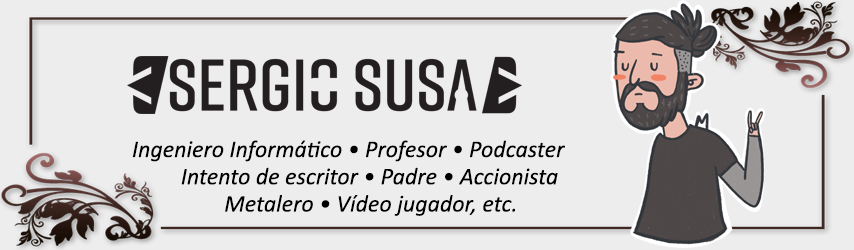
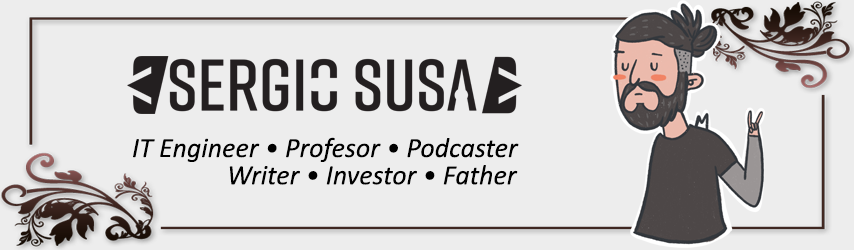
change default language and header.

Changed region(s): [[0.1522, 0.56, 0.6698, 0.756], [0.2436, 0.784, 0.6089, 0.868]]

diff --git a/README_ES.md b/README_ES.md
@@ -1,21 +1,21 @@
-# Hi, i'm Sergio Susa 👋
+# Hola, soy Sergio Susa 👋
 
 ![Sergio Susa](https://github.com/sergiosusa/sergiosusa/raw/master/images/header.png)
 
-I'm especially interested in everything related to the technological sector:
+Interesado en todo lo relacionado con el sector tecnológico, especialmente:
 
-- Software development.
-- Continuous improvement and self-learning.
-- Innovation.
-- Automation.
+- Desarrollo de software.
+- Mejora continua y autoaprendizaje.
+- Innovación.
+- Automatización.
 
-## Keep in touch with me through the web 🌍
+## Mantente en contacto conmigo a través de la web 🌍
 
-### Personal projects
-- [🖋 Personal Blog](https://sergiosusa.com/)
+### Proyectos personales
+- [🖋 Blog personal](https://sergiosusa.com/)
 - [🎙 ¿Qué me estás container? (Podcast)](https://www.ivoox.com/podcast-que-me-estas-container_sq_f1675569_1.html)
 
-### Social networks
+### Redes sociales
 
 <p align="left">
     <a href="https://www.facebook.com/sergiosusa" target="_blank" rel="noreferrer">
@@ -52,6 +52,6 @@ I'm especially interested in everything related to the technological sector:
     </a>
 </p>
 
-I am currently collaborating with the podcast ["Todo esta mal"](http://todoestamal.com/) 🤦.
+Actualmente colaboro con el podcast ["Todo esta mal"](http://todoestamal.com/) 🤦.
 
-[Spanish Version 🇪🇸](README_ES.md)
+[🇬🇧](README.md)
